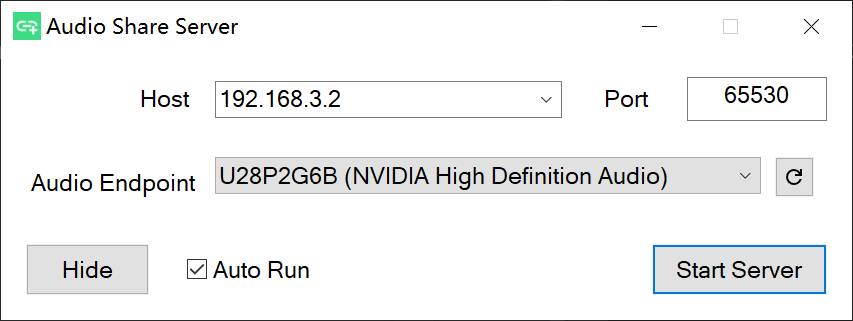
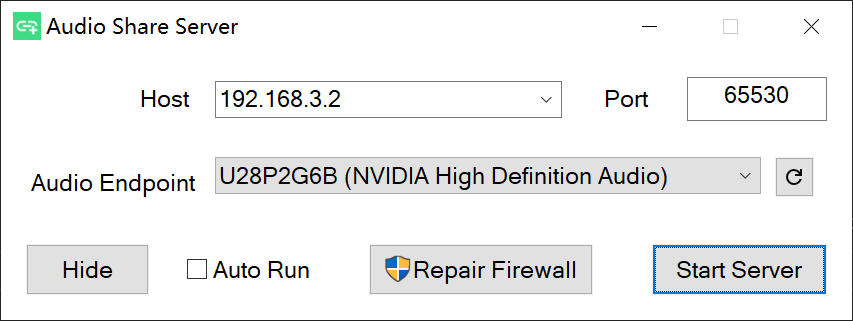
fix typo
merge main

Changed region(s): [[0.4267, 0.7477, 0.7011, 0.9346], [0.2134, 0.81, 0.2438, 0.8723]]

diff --git a/server-mfc/AudioShareServerDlg.cpp b/server-mfc/AudioShareServerDlg.cpp
@@ -228,6 +228,7 @@ BOOL CAudioShareServerDlg::OnInitDialog()
     //  when the application's main window is not a dialog
     SetIcon(m_hIcon, TRUE);			// Set big icon
 
+    // TODO: Add extra initialization here
     ShowNotifyIcon();
 
     if (theApp.GetContextMenuManager()->AddMenu(L"SystemTray", IDR_MENU_SYSTEM_TRAY) == FALSE) {
@@ -235,7 +236,6 @@ BOOL CAudioShareServerDlg::OnInitDialog()
         return FALSE;
     }
 
-    // TODO: Add extra initialization here
     ShowWindow(theApp.m_bHide ? SW_HIDE : SW_SHOW);
 
     // set default host and port
@@ -457,6 +457,9 @@ LRESULT CAudioShareServerDlg::OnNotifyIcon(WPARAM wParam, LPARAM lParam)
 
 void CAudioShareServerDlg::OnDestroy()
 {
+    CDialogEx::OnDestroy();
+
+    // TODO: Add your message handler code here
     ShowNotifyIcon(false);
 }
 
@@ -494,6 +497,7 @@ void CAudioShareServerDlg::OnBnClickedButtonReppairFirewall()
         wil::unique_cotaskmem_string clsid;
         THROW_IF_FAILED(StringFromCLSID(__uuidof(NetFwPolicy2), &clsid));
 
+        // https://learn.microsoft.com/en-us/windows/win32/secauthz/developing-applications-that-require-administrator-privilege
         // https://learn.microsoft.com/en-us/windows/win32/com/the-com-elevation-moniker
         BIND_OPTS3 bo{};
         bo.cbStruct = sizeof(bo);

diff --git a/README.md b/README.md
@@ -48,12 +48,14 @@ Audio Share can share Windows/Linux computer's audio to Android phone over netwo
 - The audio player on PC can work normally. That's to say that you should have a sound card and the audio endpoint is in available state. Otherwise, you need some [extra setups](#extra-setups-for-no-audio-endpoint).
 - Android 6.0(API 23)+.
 
+
 ## Usage for Windows GUI
 - Download APK file and AudioShareServer.exe from [latest release](https://github.com/mkckr0/audio-share/releases/latest).
 - Open the AudioShareServer.exe on your computer. The default arguments may work well. But you may still have to check the "Host" part. It's normally the LAN address, such as `192.168.3.2`. Make sure your phone can connect your computer over this IP address. Then Click "Start Server" button.
 - Install APK to your phone and open it. Modify the "Host" part to make sure it's same as the value of previous step, such as `192.168.3.2`. Click "▶" button and enjoy the audio🎶.
 
 > **Caution!!!**: This app doesn't support auto reconnecting feature at present. Once the app is killed  or disconnected by Android power saver, the audio playing will be stop. Adding app to the whitelist of power saver is recommended. To do this, you can press "Request Ignore Battery Optimizations" on app's Settings.
+
 
 ## Usage for Windows/Linux CMD
 - Download the `audio-share-server-cmd-windows.zip` for Windows, the `audio-share-server-cmd-linux.tar.gz` for Linux.
@@ -212,6 +214,7 @@ This project is licensed under the [Apache-2.0 license](https://opensource.org/l
 
 ## Used third-party libraries
 
+- [WIL](https://github.com/microsoft/wil) licensed under the [MIT license](https://github.com/microsoft/wil/blob/master/LICENSE)
 - [Asio](https://github.com/chriskohlhoff/asio) licensed under the [BSL-1.0 license](http://www.boost.org/LICENSE_1_0.txt).
 - [Protocol Buffers](https://github.com/protocolbuffers/protobuf) licensed under the [LICENSE](https://github.com/protocolbuffers/protobuf/blob/main/LICENSE).
 - [spdlog](https://github.com/gabime/spdlog) licensed under the [MIT license](https://github.com/gabime/spdlog/blob/v1.x/LICENSE).
